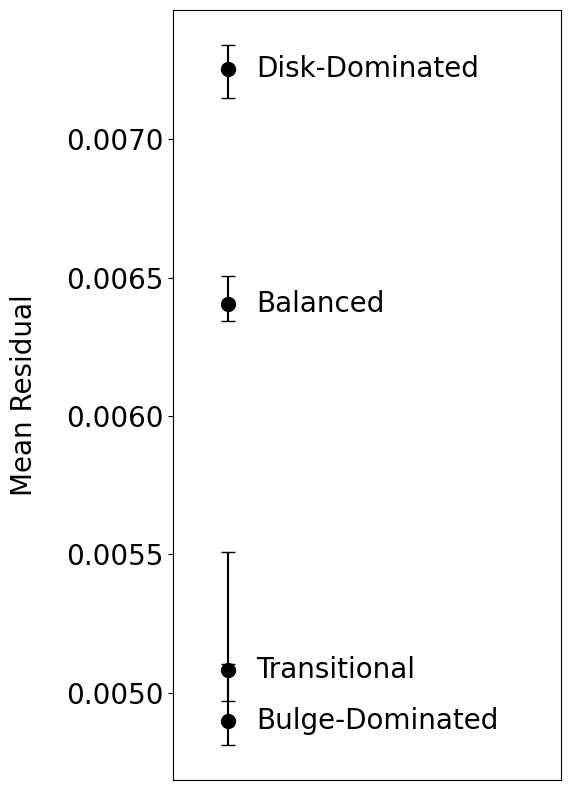
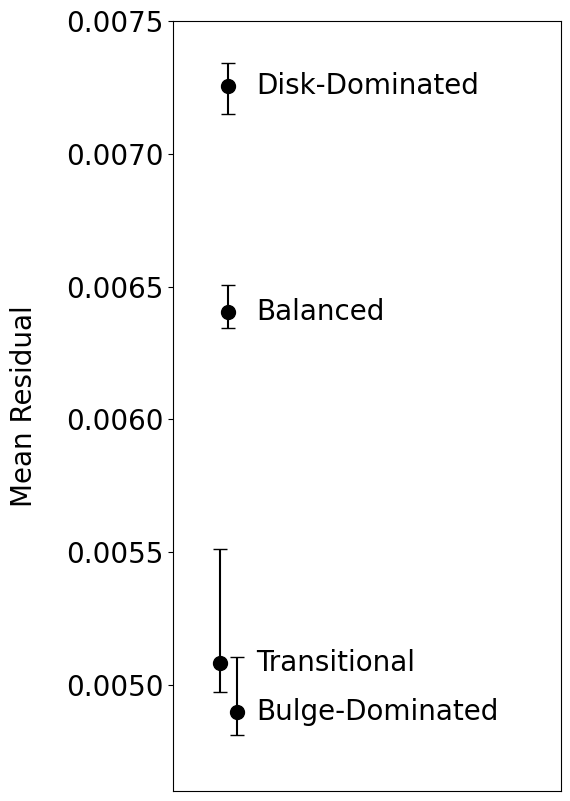
Code

diff --git a/comparison-models.py b/comparison-models.py
@@ -52,7 +52,7 @@ for run in range(1, 26):
     transitional_all += transitional_loss.tolist()
     transitional_loss = np.mean(transitional_loss)
     transitional_losses.append(transitional_loss)
-    print(run, transitional_loss)
+    # print(run, transitional_loss)
 
     # elliptical_loss = np.load("Variational Eagle/Loss/Ellipticals/planar_new_latent_" + str(encoding_dim) + "_beta_" + beta_name + "_epoch_" + str(epochs) + "_flows_" + str(n_flows) + "_" + str(run) + "_default.npy")
     # elliptical_losses.append(elliptical_loss[1])
@@ -61,6 +61,15 @@ for run in range(1, 26):
     elliptical_loss = np.mean(elliptical_loss)
     elliptical_losses.append(elliptical_loss)
     # print(run, elliptical_loss)
+
+
+print()
+print(np.sort(spiral_losses))
+print(np.sort(balanced_losses))
+print(np.sort(transitional_losses))
+print(np.sort(elliptical_losses))
+print()
+
 
 
 all_losses = [balanced_losses, spiral_losses, transitional_losses, elliptical_losses]
@@ -117,7 +126,7 @@ mean_losses = np.array([np.mean(balanced_losses), np.mean(spiral_losses), np.mea
 max_losses = np.array([max(balanced_losses), max(spiral_losses), max(transitional_losses), max(elliptical_losses)])
 print(mean_losses)
 
-print(max_losses[2])
+# print(max_losses[2])
 
 
 
@@ -148,8 +157,8 @@ print(max_losses[2])
 fig, axs = plt.subplots(1, 1, figsize=(5, 10))
 
 # axs.scatter([0, 0, 0, 0], mean_losses, s=150)
-axs.errorbar([0, 0, 0, 0], mean_losses, yerr=[mean_losses-min_losses, max_losses-mean_losses], fmt="o", color="black", capsize=5, markersize=10)
-# axs.errorbar([0, 0, -0.015, 0.015], mean_losses, yerr=[mean_losses-min_losses, max_losses-mean_losses], fmt="o", color="black", capsize=5, markersize=10)
+# axs.errorbar([0, 0, 0, 0], mean_losses, yerr=[mean_losses-min_losses, max_losses-mean_losses], fmt="o", color="black", capsize=5, markersize=10)
+axs.errorbar([0, 0, -0.015, 0.015], mean_losses, yerr=[mean_losses-min_losses, max_losses-mean_losses], fmt="o", color="black", capsize=5, markersize=10)
 
 # labels = ["Balanced", "Disk-Dominated", "Transitional", "Bulge-Dominated"]
 
@@ -162,6 +171,7 @@ axs.text(0.05, mean_losses[3], "Bulge-Dominated", fontsize=20, ha="left", va="ce
 axs.set_ylabel("Mean Residual", fontsize=20, labelpad=20)
 axs.tick_params(labelsize=20)
 axs.set_xlim(-0.1, 0.6)
+axs.set_ylim(0.0046, 0.0075)
 axs.set_xticks([])
 # axs.set_yticks([round(mean_losses[2], 3), round(mean_losses[1], 3), round(mean_losses[0], 3), round(mean_losses[3], 3)])
 # axs.set_yticks([0.204, 0.206, 0.208, 0.210, 0.212, 0.214, 0.216])
